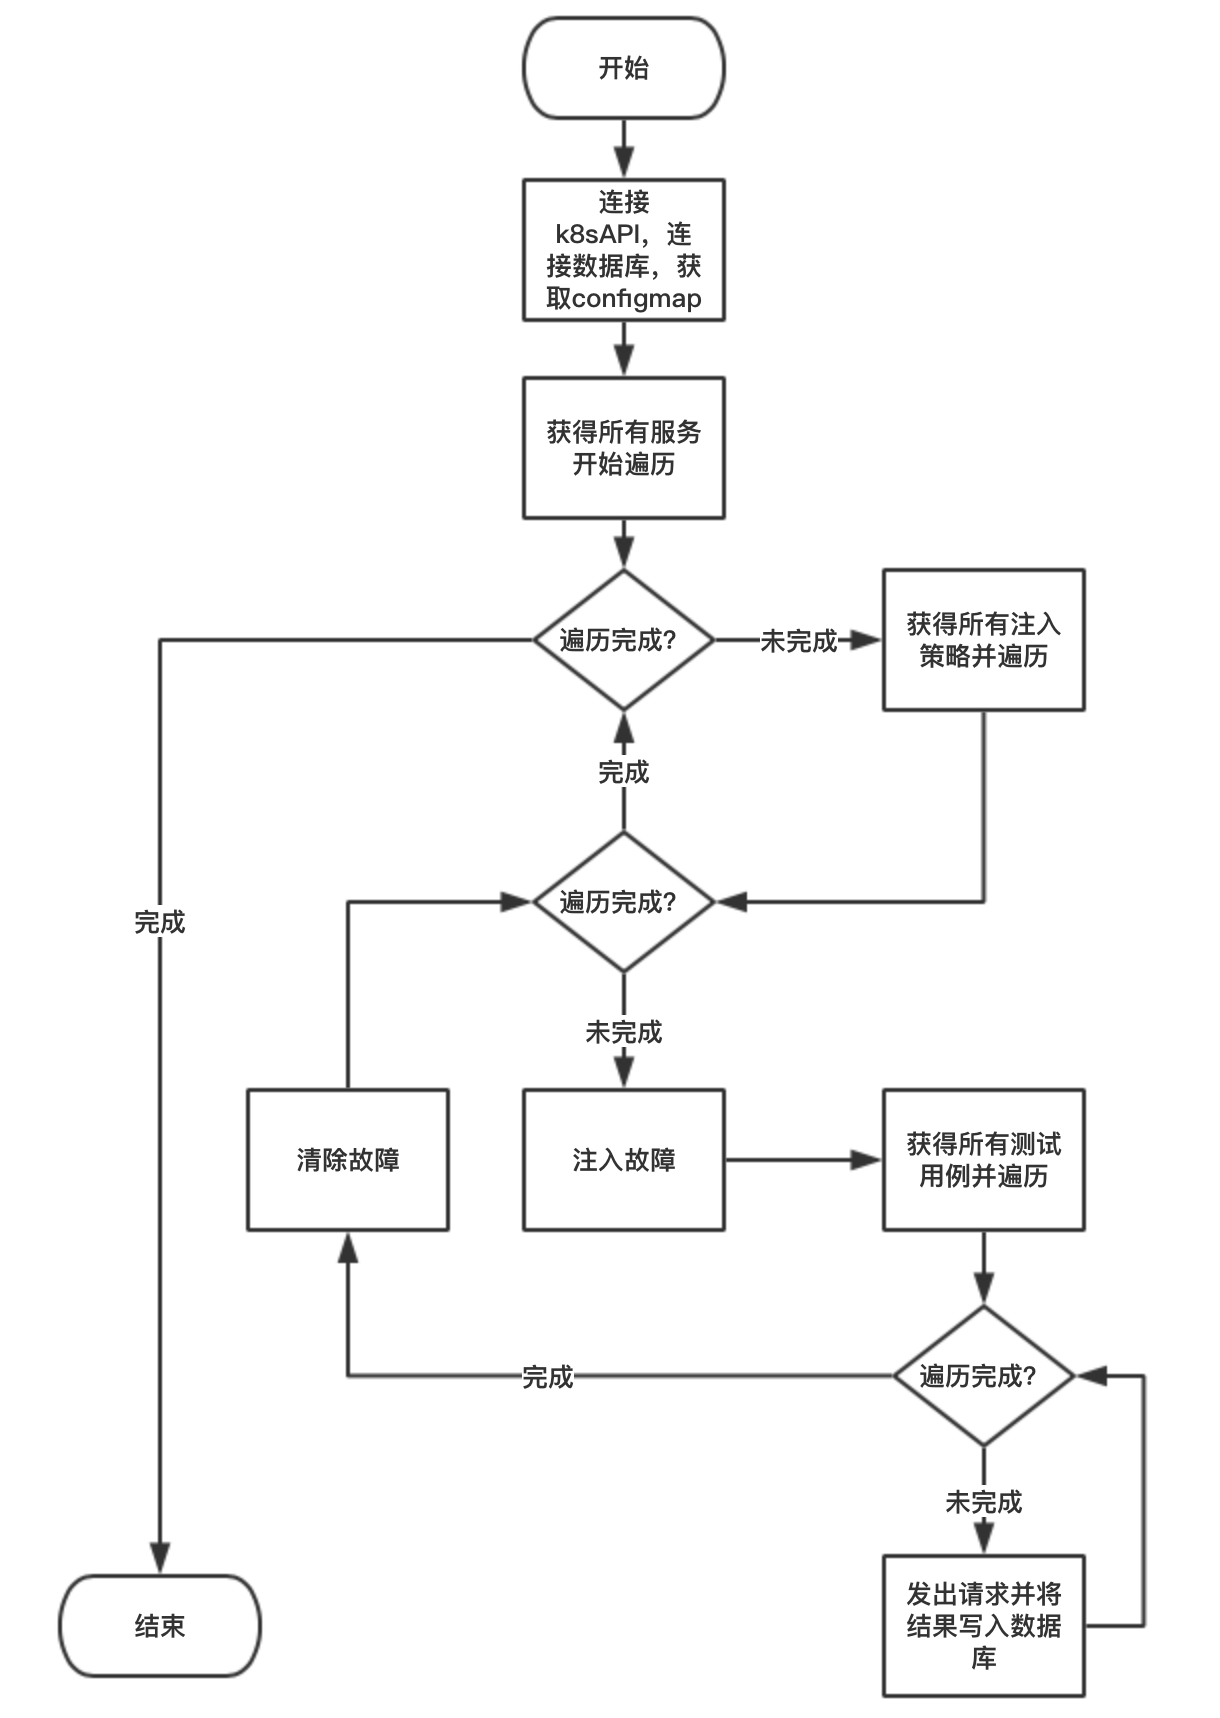
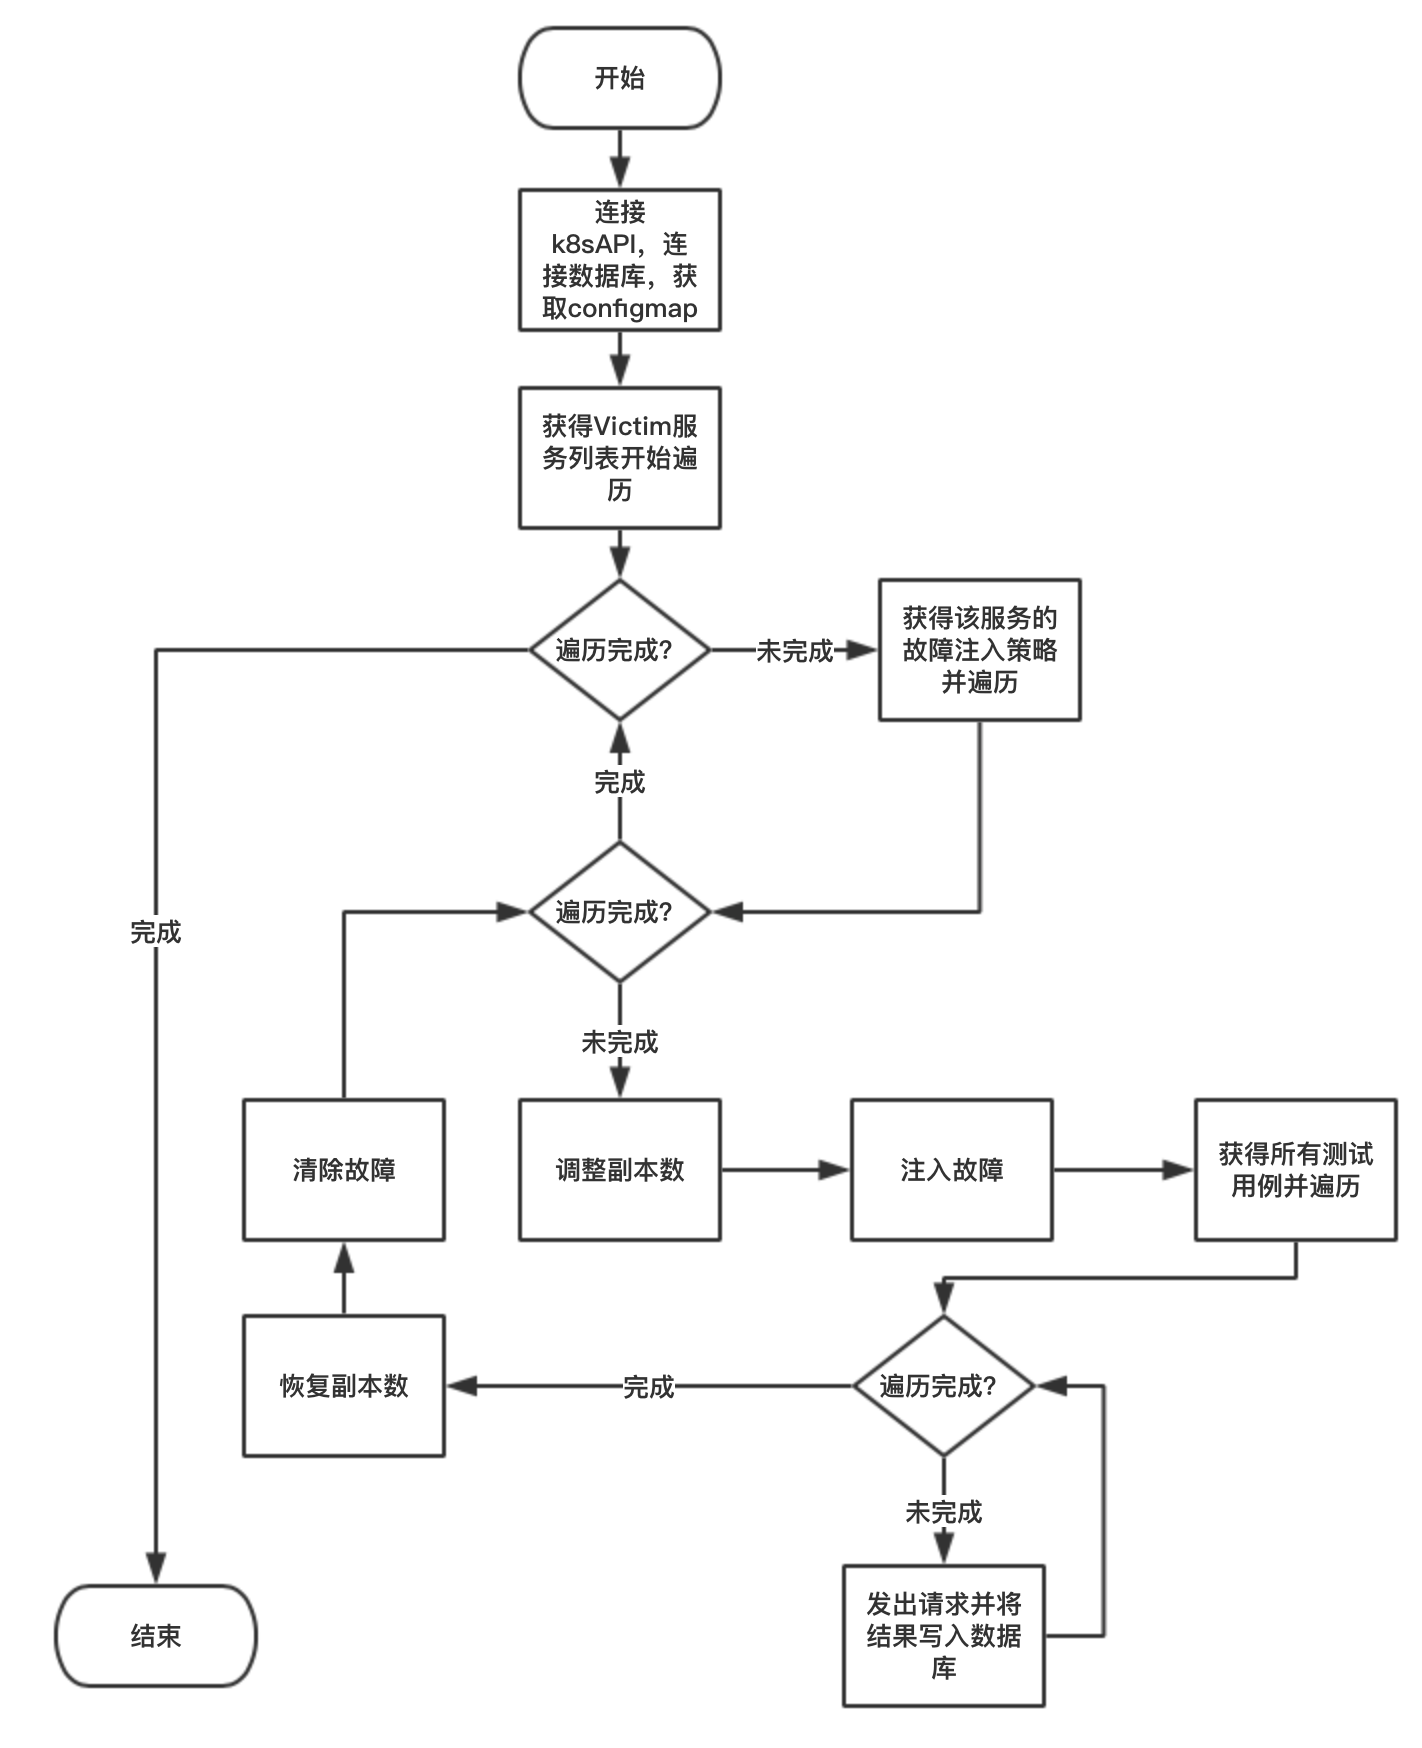
add image

Changed region(s): [[0.0311, 0.0, 0.9967, 1.0], [0.3426, 0.0308, 0.3738, 0.0617]]

diff --git a/doc/README.md b/doc/README.md
@@ -403,4 +403,7 @@ kube-chaos的入境/出境流量故障参数分为两个部分，格式为:
 ### `netem arg`
 netem的参数详见本目录下另一个[文档](./netem.md)
 ## 流程图
+### 用户部署流程图
+![](img/userProcess.png)
+### kube-spy执行流程图
 ![](img/execProcess.png)
